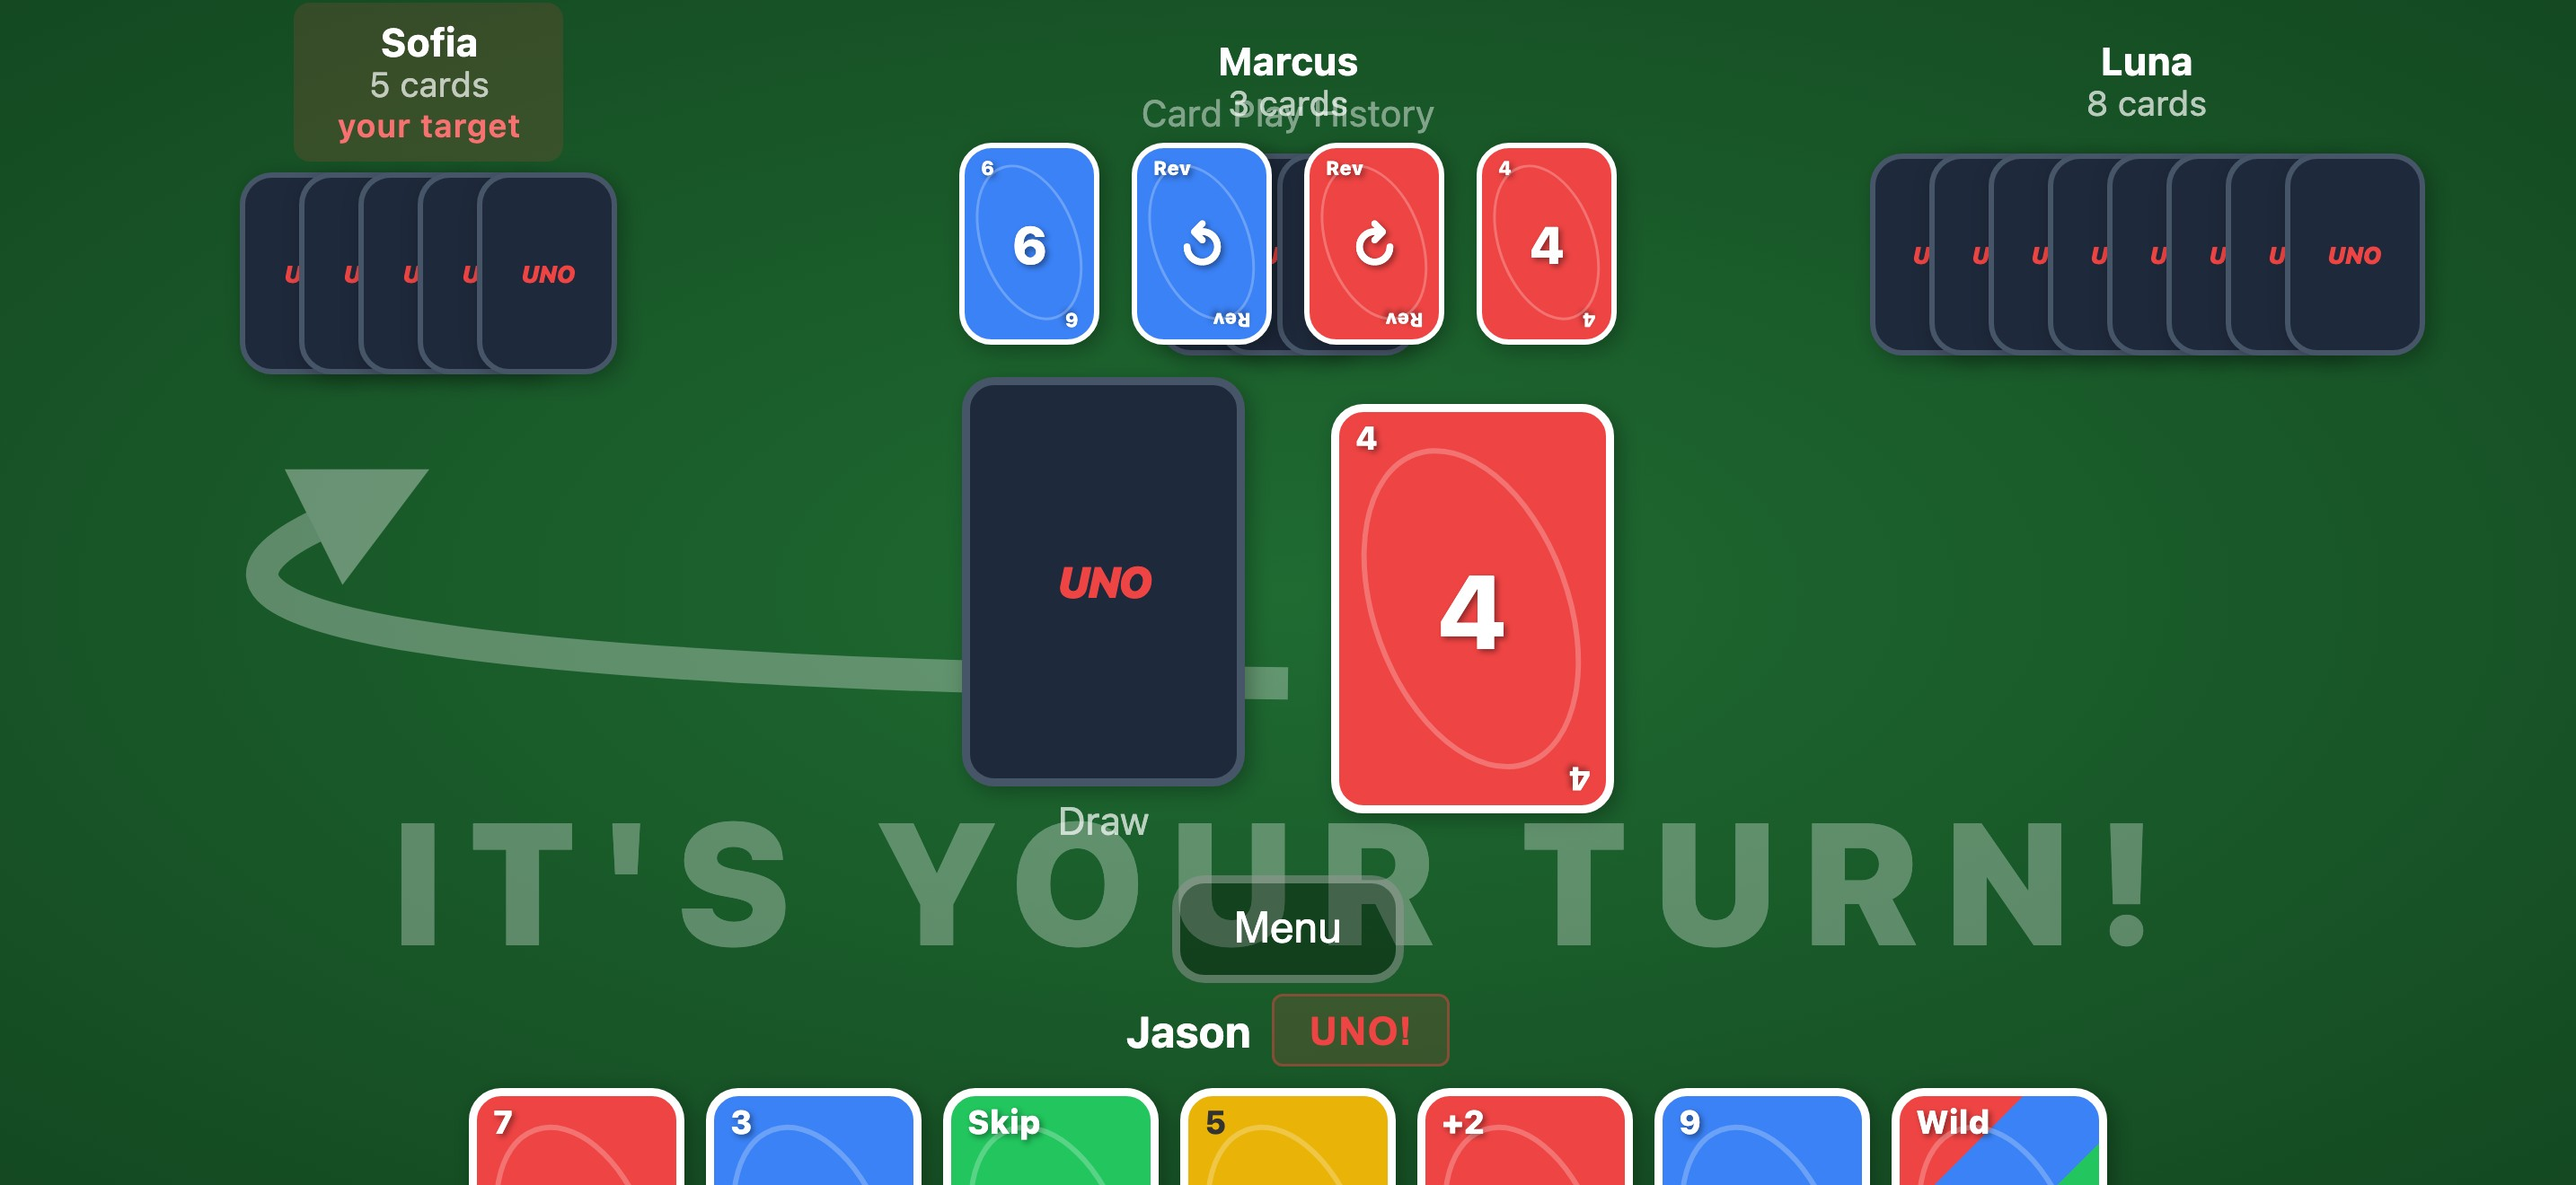
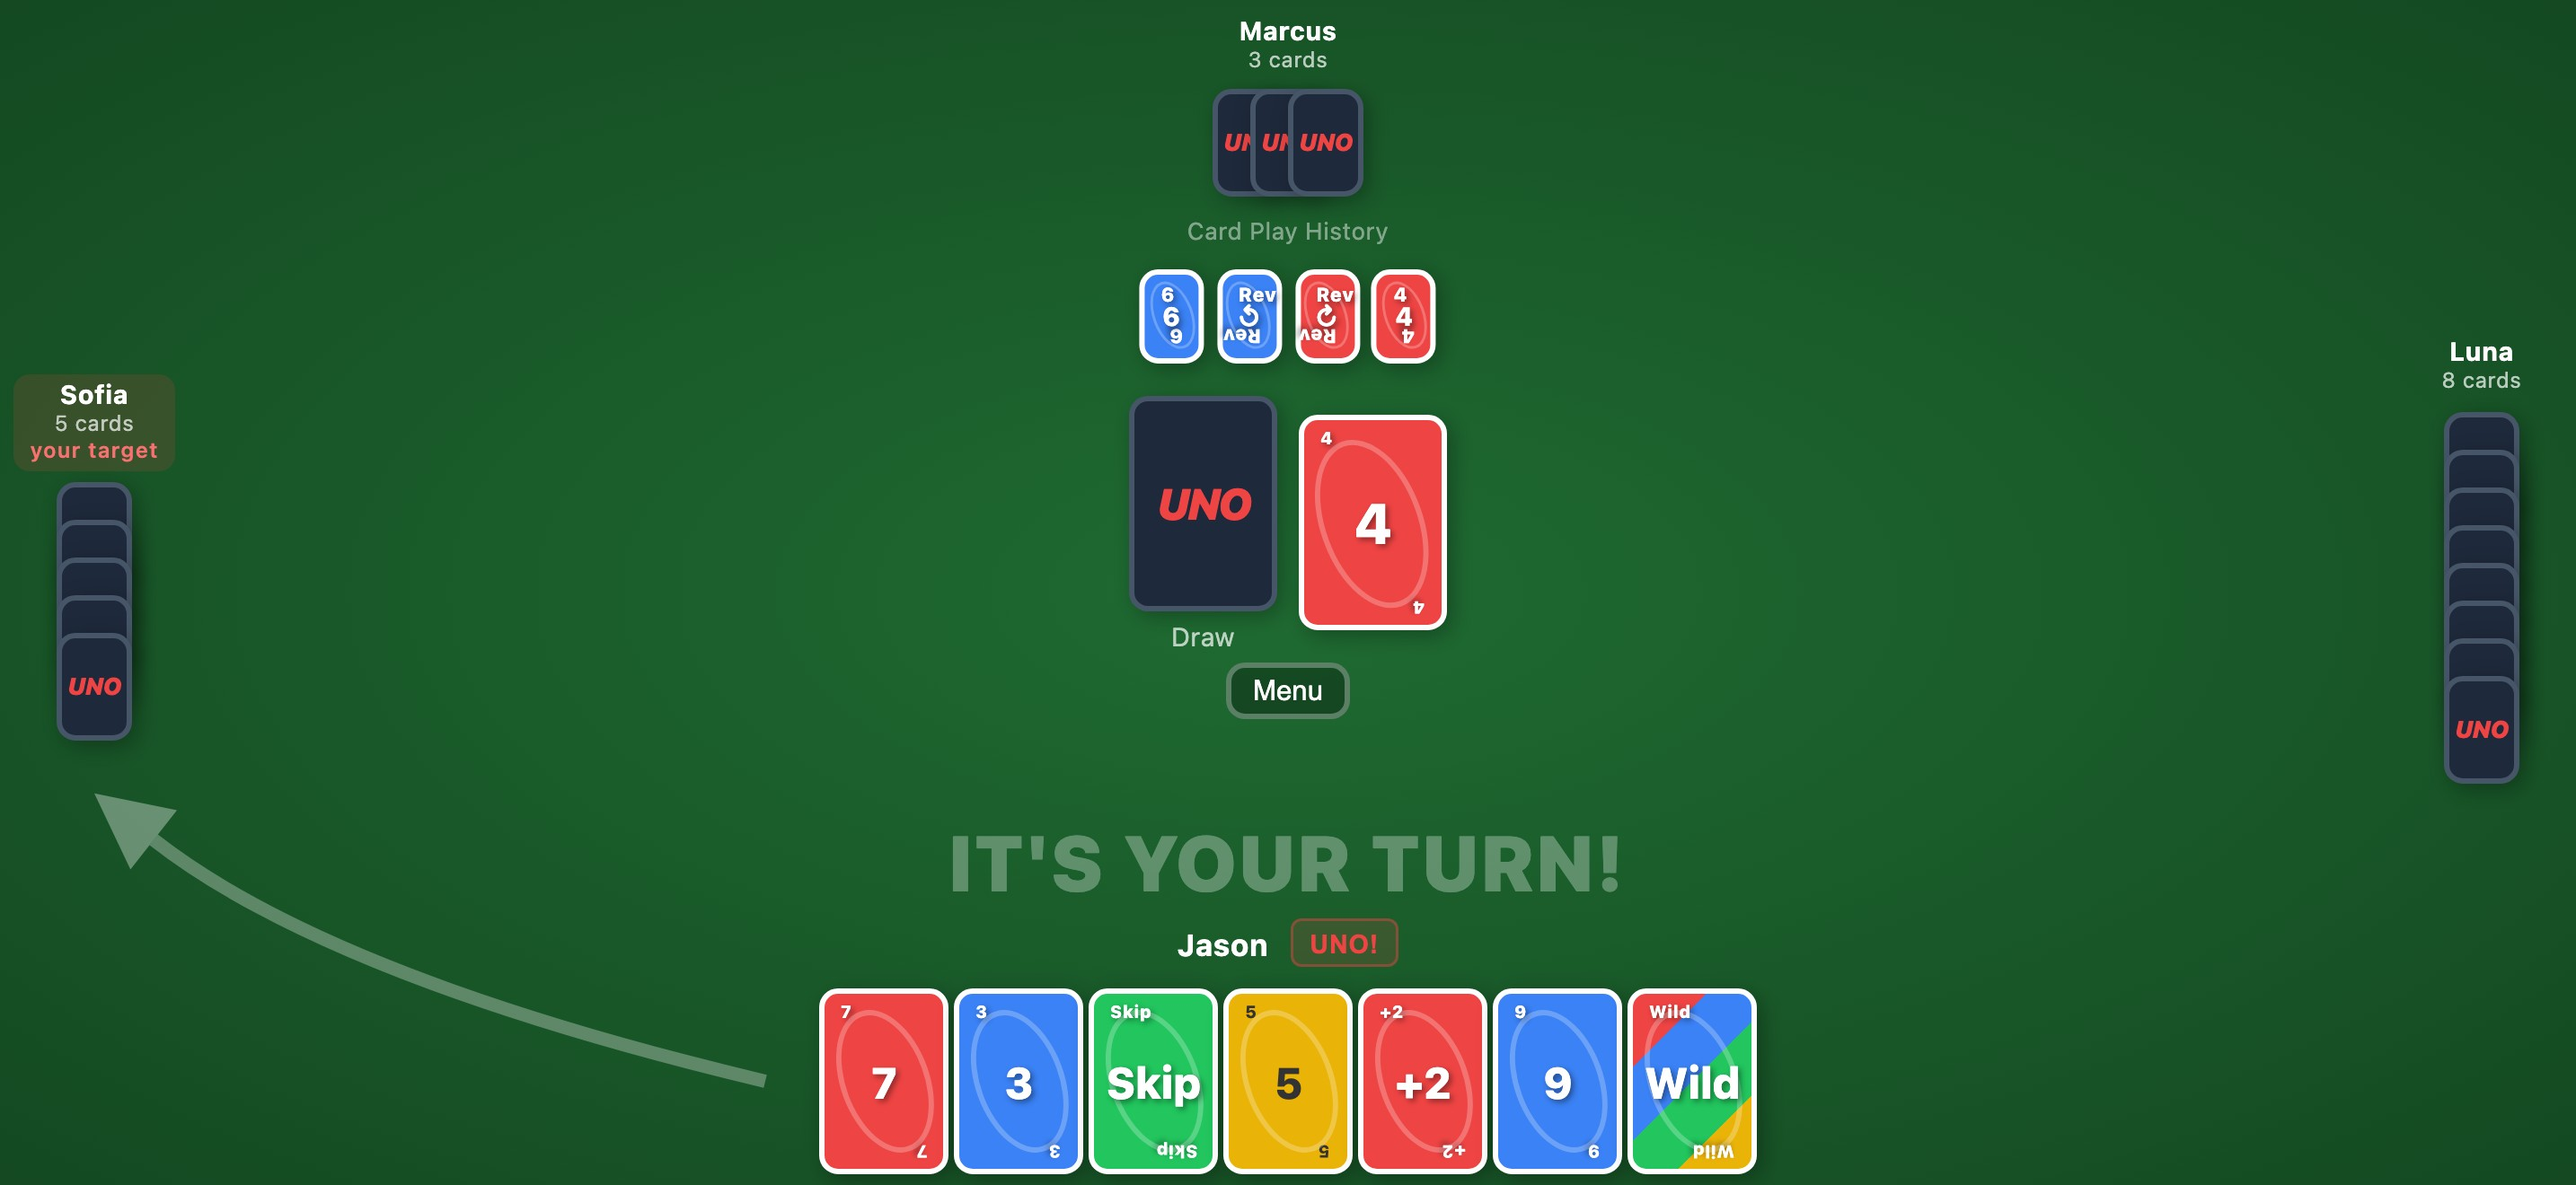
Add landscape phone layout and auto-launch on deploy
Switch to a 3-column desktop-style grid for landscape phones (height <= 500px)
with smaller cards, vertical AI side hands, and safe-area notch padding so the
game is playable on iPhone in landscape orientation. Update direction arrow JS
to use desktop edge-point calculations in this mode. Also launch the app
automatically after installing in the deploy script.

diff --git a/src/style.css b/src/style.css
@@ -1248,3 +1248,171 @@ body {
     padding: 0.3rem 0.75rem;
   }
 }
+
+/* ---- Landscape Phone Layout ---- */
+@media (orientation: landscape) and (height <= 500px) {
+  :root {
+    --card-w: 48px;
+    --card-h: 69px;
+    --card-font: 1rem;
+    --card-border: 2px;
+    --card-radius: 7px;
+
+    --card-sm-w: 28px;
+    --card-sm-h: 40px;
+    --card-sm-font: 0.45rem;
+
+    --card-lg-w: 55px;
+    --card-lg-h: 80px;
+    --card-lg-font: 1.3rem;
+
+    --hand-overlap: 2px;
+    --hover-lift: -10px;
+    --ai-overlap-h: -14px;
+    --ai-overlap-v: -26px;
+  }
+
+  /* Override compact stacked layout back to 3-column desktop-style grid */
+  .game-table {
+    grid-template-columns: minmax(70px, auto) 1fr minmax(70px, auto);
+    grid-template-rows: auto 1fr auto;
+    grid-template-areas:
+      "top    top    top"
+      "left   center right"
+      "bottom bottom bottom";
+    padding-left: env(safe-area-inset-left, 0);
+    padding-right: env(safe-area-inset-right, 0);
+  }
+
+  /* Revert AI side hands to vertical stacking (undo compact horizontal override) */
+  .ai-hand__cards--left,
+  .ai-hand__cards--right {
+    flex-direction: column;
+  }
+
+  .ai-card--left,
+  .ai-card--right {
+    margin-left: 0;
+    margin-top: var(--ai-overlap-v);
+  }
+
+  .ai-card--left:first-child,
+  .ai-card--right:first-child {
+    margin-top: 0;
+  }
+
+  .game-table__top {
+    padding: 0.2rem 0;
+  }
+
+  .game-table__bottom {
+    padding: 0 0 calc(0.25rem + env(safe-area-inset-bottom, 0px));
+  }
+
+  .your-turn-indicator {
+    font-size: 1.8rem;
+    letter-spacing: 0.03em;
+  }
+
+  .center-area {
+    gap: 0.25rem;
+  }
+
+  .center-area__piles {
+    gap: 0.5rem;
+  }
+
+  .human-hand__cards {
+    padding: 0 0.5rem;
+  }
+
+  .ai-hand__label {
+    font-size: 0.6rem;
+    padding: 0.15rem 0.4rem;
+  }
+
+  .ai-hand__count {
+    font-size: 0.5rem;
+  }
+
+  .ai-hand__target-badge {
+    font-size: 0.5rem;
+  }
+
+  .human-hand__label {
+    font-size: 0.7rem;
+  }
+
+  .draw-pile__label {
+    font-size: 0.6rem;
+  }
+
+  .uno-btn {
+    padding: 0.15rem 0.4rem;
+    font-size: 0.6rem;
+  }
+
+  .menu-btn {
+    font-size: 0.65rem;
+    padding: 0.2rem 0.5rem;
+  }
+
+  .pass-btn {
+    font-size: 0.8rem;
+    padding: 0.3rem 0.8rem;
+  }
+
+  .color-chooser {
+    padding: 1rem;
+  }
+
+  .color-btn {
+    width: 50px;
+    height: 50px;
+  }
+
+  .game-over {
+    padding: 1.5rem 2rem;
+  }
+
+  .game-over__title {
+    font-size: 1.5rem;
+  }
+
+  /* Recent plays */
+  .recent-plays {
+    gap: 0.3rem;
+  }
+
+  .recent-play .card {
+    width: 24px;
+    height: 35px;
+    font-size: 0.5rem;
+  }
+
+  .recent-play .card__center {
+    font-size: 0.6rem;
+  }
+
+  .recent-plays__label {
+    font-size: 0.55rem;
+  }
+
+  /* Direction arrow */
+  #arrow-line {
+    stroke-width: 5;
+  }
+
+  /* Card text */
+  .card__corner {
+    font-size: 0.4rem;
+  }
+
+  .card__center {
+    font-size: 1rem;
+  }
+
+  .card__center--large {
+    font-size: 1.3rem;
+  }
+}

diff --git a/src/components/GameBoard.vue b/src/components/GameBoard.vue
@@ -30,8 +30,9 @@ function calcArrowPositions(): ArrowPositions | null {
   if (!table) return null
 
   const tableRect = table.getBoundingClientRect()
-  const isCompact = window.innerWidth <= 1100
-  const isPhone = window.innerWidth <= 640
+  const isLandscapePhone = window.matchMedia('(orientation: landscape) and (max-height: 500px)').matches
+  const isCompact = window.innerWidth <= 1100 && !isLandscapePhone
+  const isPhone = window.innerWidth <= 640 || isLandscapePhone
   const gap = isPhone ? 20 : 35
 
   const getPlayerCards = (idx: number): HTMLElement | null => {
@@ -156,7 +157,8 @@ function applyArrowPositions(p: ArrowPositions) {
   const head = document.getElementById('arrow-head')
   if (!line) return
 
-  const isPhone = window.innerWidth <= 640
+  const isLandscapePhone = window.matchMedia('(orientation: landscape) and (max-height: 500px)').matches
+  const isPhone = window.innerWidth <= 640 || isLandscapePhone
   const hl = isPhone ? 28 : 48
   const dx = p.ex - p.cpX
   const dy = p.ey - p.cpY
